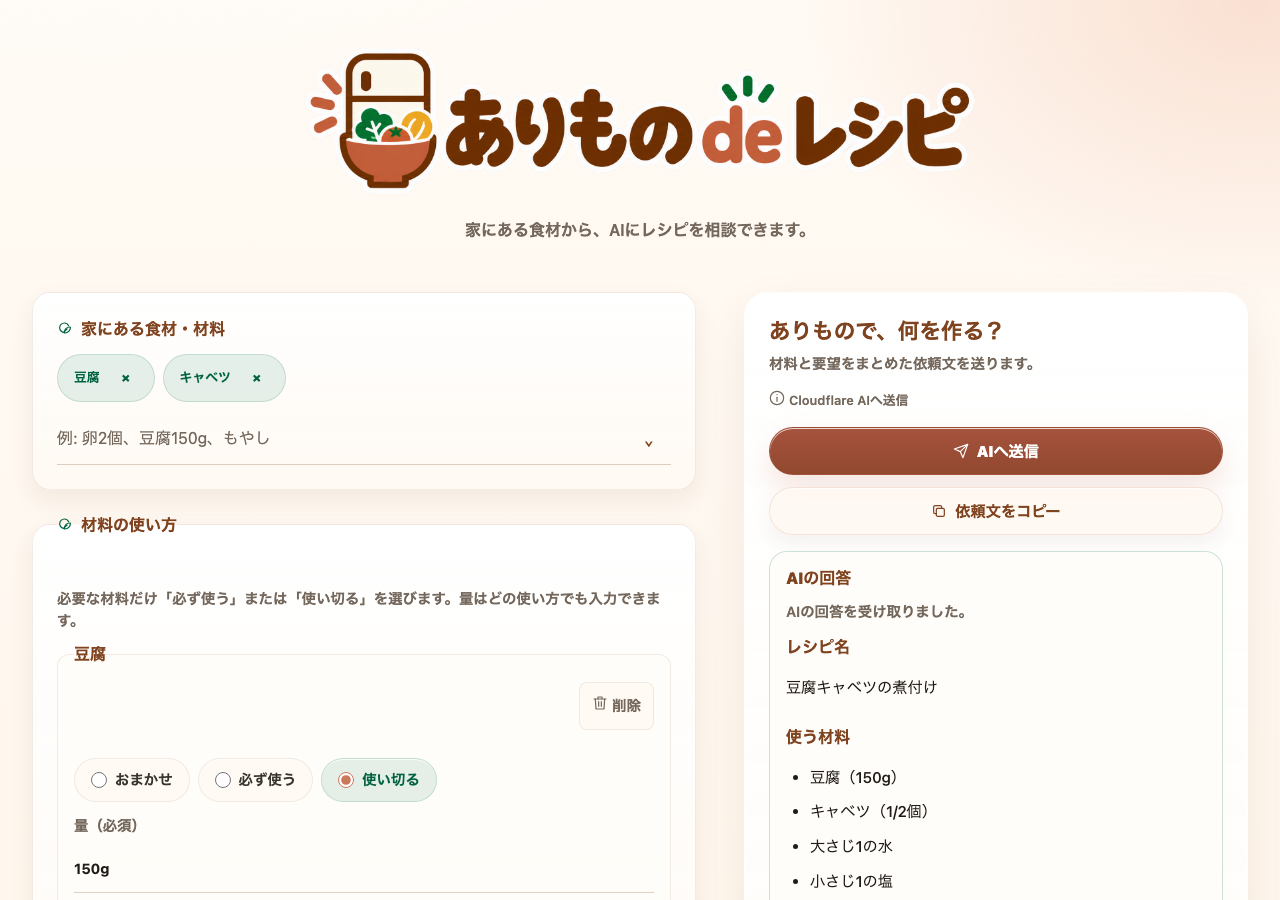
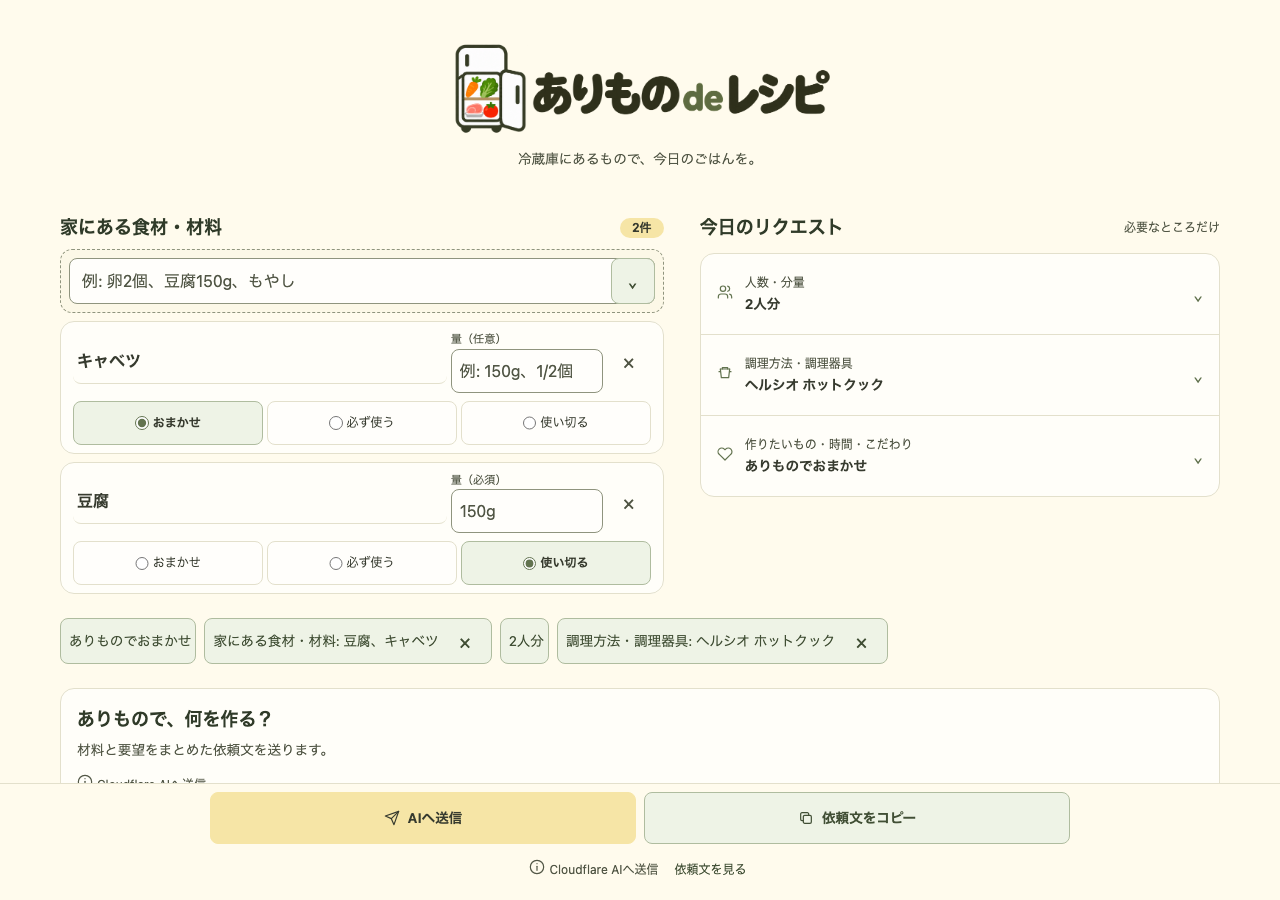
docs: record UI migration design and verification

diff --git a/docs/architecture/ui-migration.md b/docs/architecture/ui-migration.md
@@ -1,0 +1,180 @@
+# UI migration
+
+## Plan and test boundary
+
+Keep the existing UI during stage 1. Introduce a small typed application API whose
+committed recipe requests and AI lifecycle are independent of DOM, CSS and
+Clipboard. Test public operations, detached snapshots, prompt output and injected
+AI requests in Node. Reuse the existing candidate data, normalization, servings,
+material validation, prompt builder and AI client. After stage 1 checks pass,
+connect the supplied cream/yellow/sage design to that same API.
+
+Package delivery as three commits: the application API and Node tests; the new
+UI and browser regressions; documentation and screenshots. Open a draft PR for
+human review. Merge and deployment remain outside this task. Browser presentation
+state (IME, drafts, focus, suggestion panels and dialogs) belongs to adapters.
+
+## Feature map
+
+| Feature | Current implementation / tests | Application operation | New UI entrance | Verification | Status |
+| --- | --- | --- | --- | --- | --- |
+| Materials and IDs | combo-registry, ui / input, browser-interaction-regressions | commitInput, editValue, removeValue | Material input and cards | Exact duplicates, rename preserves ID/amount/usage; merge preserves destination | Verified: Node/E2E |
+| Full candidates | data, suggestions / data, suggestions, app | getSuggestions | Candidate button after input | Initial 20, featured-first search, selected exclusion, no mutation | Verified: Node/E2E |
+| Usage and amount | recipe-decision/materials, prompt / recipe-decision, direct-ai-flow | updateMaterial | Card amount and three usage choices | Optional all modes; use-up requires explicit nonblank amount | Verified: Node/E2E |
+| Amount meaning | types, prompt / prompt | updateMaterial | Card amount | Preserve as-written/custom; no name parsing or conversion | Verified: Node/E2E |
+| Intent | conditions, ui / conditions, input | setRequestIntent | Request options | Hidden values retained, inactive values omitted | Verified: Node/E2E |
+| Servings | servings, serving-controls / servings | setServingsMode, adjustServings | First request option | Presets, custom groups 0..10; no new rounding | Verified: Node/E2E |
+| Recipe count and roles | conditions, combo-registry / prompt, input | setRecipeCount, commitInput | Intent and count options | Pairing auto becomes one; target excludes roles; single keeps first | Verified: Node/E2E |
+| Tools | data, combo-registry / input | commitInput, editValue, removeValue | Second request option | Full candidates and free values, Hot Cook accessible | Verified: Node/E2E |
+| Time | combo-field, data / prompt | setCookTime | Time option | Unspecified/10/20/30/45/60, omission | Verified: Node/E2E |
+| Directions | data, combo-registry / input, prompt | commitInput, editValue, removeValue | Preferences | Full catalog and free values | Verified: Node/E2E |
+| NG materials and seasonings | candidate-values / data, input | commitInput, editValue, removeValue | Preferences | Composed catalog, edits/deletes, prompt | Verified: Node/E2E |
+| Other requests | conditions, prompt / prompt | setSupplementalNotes | Preferences | Free text and omission | Verified: Node/E2E |
+| Full request text | prompt, conditions / prompt | getSnapshot | Preview, copy, send | Stable section/material order and same body | Verified: Node/E2E |
+| Copy | output-panel / copy, direct-ai-flow | getSnapshot after draft commit | Fixed secondary action with icon | Input/request errors and loading preserve copy; fallback focus | Verified: Node/E2E |
+| AI lifecycle | ai-recipe-client, ai-prompt-panel / ai-prompt-client, direct-ai-flow | send, cancel, reportRenderFailure | Fixed primary action, answer area | Explicit send only; injected client; abort plus generation guards | Verified: Node/E2E |
+| Safe Markdown | recipe-markdown / recipe-markdown, direct-ai-flow | reportRenderFailure | Separate answer area | Existing parser budgets, raw HTML/URLs/images blocked | Verified: Node/E2E |
+| Browser interaction | combo-registry, app-events / browser-interaction-regressions | commitInput plus adapter events | Inputs, candidates, preview | IME, Enter/blur, focus, modal trap/return/resize, reduced motion | Verified: Node/E2E |
+| Public surroundings | web-analytics, ui / assets, browser-interaction-regressions | None | Footer and privacy dialog | CSP, exact production origin, no form analytics, narrow access | Verified: Node/E2E |
+
+Stored strings trim outside whitespace only. Search normalization is separate.
+Comma punctuation and internal spaces are retained. Duplicate matching is exact
+and case-sensitive. Canonical material order is insertion order; latest-first is
+only a view. Target dish is single; pairing dishes are multiple. Switching roles
+to one discards all but the first as before. Hidden inputs otherwise remain stored.
+
+## Evidence
+
+- Baseline `npm run check`: format, lint, typecheck, build, unit and structure
+  passed; E2E server startup failed in the restricted environment (exit 1).
+- Node commands use `ASDF_NODEJS_VERSION=26.4.0` because no repository-local asdf
+  version is selected. No dependency or package-manager change is required.
+- Modern Web Guidance CLI could not reach npm (ENOTFOUND). Native dialog and
+  inert behavior checked against [MDN](https://developer.mozilla.org/en-US/docs/Web/API/HTMLDialogElement/showModal).
+
+### Stage 1 acceptance
+
+- `npm run format:check`, `npm run lint`, `npm run typecheck`, `npm run build`,
+  `npm run test:unit`, `npm run test:structure`: exit 0 after the final API changes.
+- Full old-UI E2E run: 490 passed, 10 WebKit failures. Trace/event inspection
+  identified unchanged send-label replacement during blur swallowing clicks.
+  Avoiding unchanged AI presentation updates fixed it.
+- `npm run test:e2e -- --project=webkit --project=mobile-safari
+  --project=tablet-safari tests/e2e/direct-ai-flow.spec.ts
+  tests/e2e/browser-interaction-regressions.spec.ts`: exit 0, 132 passed,
+  0 skipped/flaky. The other 490 old-UI cases passed in the full run.
+- One structure-test rerun during concurrent browser load timed out; the serial
+  rerun passed without changing its assertions or timeout.
+- Read-only architecture review: added ID-based material operations, semantic
+  amount updates and input/error/retry coverage. No unresolved important finding.
+- Application imports no DOM modules at runtime. Snapshots detach all arrays and
+  objects; controllers and executable dependencies remain private. The old UI
+  now projects this state; IME, drafts, focus, Clipboard and dialogs stay in adapters.
+- TDD red/green slices: materials, effective requests, generations, candidates,
+  stable-ID operations (`/tmp/arimono-red-1.log` through `red-5.log` and matching
+  green logs). Tests run in Vitest's Node environment without DOM or jsdom.
+
+Stage 1 accepted; proceed directly to the supplied UI design.
+
+### Stage 2 acceptance — 2026-10-17
+
+`CI=1 ASDF_NODEJS_VERSION=26.4.0 npm run check` completed with **exit 0**.
+The command ran format, design/code/HTML/Markdown/YAML lint, both TypeScript
+checks, the Vite build, unit tests, structure tests and the full E2E matrix.
+Error-only reporters emitted no failures. Playwright reported **560 passed,
+0 failed, 0 skipped, 0 flaky** (163 seconds for E2E).
+
+| Playwright profile | Passed |
+| --- | ---: |
+| chromium | 110 |
+| mobile-chrome | 110 |
+| firefox | 85 |
+| webkit | 85 |
+| mobile-safari | 85 |
+| tablet-safari | 85 |
+
+Before PR delivery, reran `CI=1 ASDF_NODEJS_VERSION=26.4.0 npm run check`:
+exit 0, the same 560 passed and no failures, skips or flaky results (166 seconds
+for E2E). The delivery log is `/tmp/arimono-pr-check.log`. Also exported the
+application-API commit alone into an isolated tree with the existing dependency
+installation and ran `npm run typecheck`, `npm run build` and
+`npm run test:unit`: all exit 0 with the old UI retained.
+
+The 8 new Node application tests cover materials/IDs/amount modes, effective
+requests and hidden values, candidate access, snapshot isolation, notifications,
+input and transport failures, retry, cancellation and delayed-response generations.
+Existing prompt, client, function and safe-Markdown tests remain in place.
+
+Browser regressions also cover newest-first cards with insertion-order prompts,
+44px card controls, native amount/usage keyboard events, pending edits before
+copy/send, delayed blur while typing in another card, candidate Tab exit,
+collapsed count/role summaries and 1280x390 fixed-bar error clearance. A wide
+Markdown-table fixture now has 16 columns so it exceeds the new full-width
+answer surface as well as the mobile surface; scrolling and quantity assertions
+are retained.
+
+#### Review findings and resolutions
+
+- Restrict combo event delegation to its actual inputs/options/pills; card amount
+  and usage events keep native focus and keyboard behavior.
+- Preserve active amount selection/focus across a material insertion. Commit a
+  pending addition before creating a name editor so a delayed blur cannot save
+  partial typing or remove the editor.
+- Explicit copy/send commits completed IME text immediately; composing text is
+  left pending and the separate confirmation-Enter guard remains intact.
+- Use actual fixed-footer bounds for input/error clearance at all widths.
+- Announce AI status in one region, avoid unchanged answer/count rewrites, and
+  show active count/role/preferences in collapsed request summaries.
+- Remove the indirect DOM-controller type dependency from `conditions.ts`.
+- Read-only architecture and interaction/privacy reviews have no unresolved
+  important findings. A reviewer reproduced and rechecked the two blur races in
+  Chromium at 390x844.
+
+Safari's native keyboard setting can skip radio groups during Tab navigation.
+The updated navigation regression accepts that native step while still requiring
+focus to reach the next material and preserve subsequent typing. No test was
+skipped or timeout increased. Diagnostic logs remain at
+`/tmp/arimono-final-check.log`; prior failing traces are under
+`/tmp/arimono-ui-evidence/diagnostics/` and their prior result summary is
+`/tmp/arimono-stage2-prior-results.json`.
+
+#### Visual evidence and limits
+
+- Visually inspected Chromium screenshots at 320x700, 390x844 and 1280x900.
+  Updated [desktop screenshot](../media/desktop.png) and
+  [mobile screenshot](../media/mobile.png); the 320px capture is
+  `/tmp/arimono-ui-evidence/320.png`.
+- Browser tests include long names, multiple materials, empty/error states,
+  tables, privacy, preview traps/restoration, resize and reduced motion across
+  the configured profiles. These are Playwright/browser emulation results.
+- Physical iOS devices and software keyboards were not tested. Live Workers AI
+  generation was not exercised; controlled responses and injected transports
+  verify the existing client and application paths without live AI requests.
+- No selected formal check was skipped. `npm ci` was unnecessary because the
+  existing installed dependencies were usable and manifests/lockfile did not
+  change. Dependency audit was outside this migration's unchanged dependencies.
+
+#### Intentional UI changes and retained behavior
+
+The supplied local logo, cream/yellow/sage palette, centered subtitle, compact
+material cards and three request entrances replace the previous layout. Inputs
+precede specified values; material cards are latest first. Servings and tools
+precede purpose/time/preferences; fixed send/copy actions are available at every
+width. Tab follows the new card order (name/delete, amount, usage, next card).
+The answer remains a separate normal-flow surface below inputs.
+
+Prompt section/material order, exact-string storage and duplicate rules,
+as-written/custom semantics, inactive-value retention, count/role dependencies,
+candidate catalogs, local copy recovery and explicit same-origin full-prompt AI
+submission remain unchanged. No auth, persistence, new endpoint, provider,
+analytics expansion, external font/image request or dependency was added.
+
+Main ownership: `src/recipe-application.ts` (canonical requests and lifecycle),
+`src/combo-options.ts` (existing catalog ordering), `src/ui.ts` and browser adapters
+(projection/events), `src/styles.css` / `DESIGN.md` / local logo (visual design),
+plus Node/E2E coverage and the architecture/testing documents. Existing prompt,
+AI client, safe Markdown, Workers Function, analytics and CSP implementations
+remain the sources of truth. The starting HEAD is
+`e4effb77dff608fd6118cddc998a3bf0568fba89`. Delivery separates the application
+boundary, UI migration and review evidence into commits on a feature branch.
+The draft PR leaves approval and merge to a human; no deployment is performed.

diff --git a/docs/architecture/ui-boundaries-and-testability.md b/docs/architecture/ui-boundaries-and-testability.md
@@ -4,7 +4,8 @@
 
 - UI shell renders the page frame and stable surfaces.
 - Form rendering creates recipe item controls from data/config.
-- Event binding updates state and delegates prompt refresh.
+- Browser events translate drafts and native controls into typed application operations.
+- The application owns committed recipe requests, effective prompt data and AI state.
 - Prompt generation stays in prompt/domain-oriented modules.
 - Data definitions hold recipe item definitions, candidate values, and output labels.
 
@@ -26,10 +27,22 @@ This repo is a public single Vite app. It uses source-module boundaries instead 
 - `src/data.ts` defines current recipe item and candidate relationships.
 - `src/prompt.ts` owns prompt output rules.
 - `src/ui.ts` owns rendering structure and stable hooks.
-- `src/app-events.ts` owns interaction state changes.
+- `src/recipe-application.ts` owns committed recipe requests and the AI lifecycle. Its
+  typed operations, detached snapshots and subscriptions work in Node without a DOM.
+  It derives effective data through `conditions.ts` and reuses `buildPrompt`.
+- `src/combo-options.ts` owns candidate ordering; `suggestions.ts` filters the existing catalog.
+- `src/combo-registry.ts` owns browser drafts, IME and candidate/pill focus. It delegates
+  committed values to the application instead of keeping a second value array.
+- `src/serving-controls.ts` projects application counts; DOM datasets do not own counts.
+- `src/app-events.ts` owns presentation interactions, dialogs and action adapters.
 - `src/ai-recipe-client.ts` owns the browser call to the same-origin `/api/recipe` endpoint.
 - `src/web-analytics.ts` owns the approved production-only Cloudflare Web Analytics script installation; it does not read form state.
-- `src/ai-prompt-panel.ts` owns full-prompt submission, answer state and stale-response handling; the answer stays separate from the copyable request text.
+- `src/ai-prompt-panel.ts` renders answer state and handles explicit send focus. It
+  reports Markdown rendering failures back to the application without mutating its
+  snapshot. Async completion does not move focus or scroll. Unchanged answer state
+  is not repainted while native input/change/click events are in progress.
+- `src/output-panel.ts` copies the application prompt through the browser Clipboard
+  adapter and retains manual recovery. Copy/submit commit eligible drafts synchronously.
 - `src/recipe-markdown.ts` owns safe answer presentation only; it does not build the request or validate ingredients.
 - `src/recipe-decision/materials.ts` retains material amount validation; candidate adapters and cooking-view state have been removed under ADR 0014.
 - `functions/api/recipe.ts` owns the approved Cloudflare Pages Function boundary for Workers AI.
@@ -39,3 +52,7 @@ Do not add fake root `exports` just to make this app look like a package. If fut
 ## Future Component Splits
 
 Any future split should preserve behavior first and styling second. Start with characterization tests around prompt output and E2E stable hooks, then move code in small steps.
+
+The [UI migration map](ui-migration.md) records the new entrances and acceptance
+evidence. The supplied HTML is a visual reference; its sample data, normalization,
+prompt builder and fake AI path are not runtime dependencies.

diff --git a/README.md b/README.md
@@ -1,6 +1,6 @@
 # ありもの de レシピ
 
-**冷蔵庫にあるもので、今日の献立を決める。**
+**冷蔵庫にあるもので、今日のごはんを。**
 
 家にある食材と「使い切りたい量」を入力して、AIに料理を相談できるWebアプリです。買い足しなしを基本に、入力から作った依頼文をアプリ内AIへ送り、回答をその場で読めます。普段使っているChatGPT・Claude・Gemini向けの依頼文を作ってコピーすることもできます。
 
@@ -8,7 +8,7 @@
 
 ![材料を入力して料理を相談するデスクトップ画面](docs/media/desktop.png)
 
-[スマートフォンの画面](docs/media/mobile.png) · [操作動画](docs/media/demo.mp4)
+[スマートフォンの画面](docs/media/mobile.png) · [移行前の操作動画](docs/media/demo.mp4)
 
 ## 使い方
 
@@ -32,7 +32,7 @@
 
 依頼文を組み立てる処理と画面描画を分け、項目・候補値を設定データで管理しています。未指定の条件やルールは出力せず、利用者が入力した量や要望を保ちます。表示・コピー・送信で同じ依頼文を使い、待機・失敗時もコピーできます。入力変更による通信の中断や古い回答の破棄も扱います。AIの回答は材料・NG条件の自動照合を行わないため、調理前の確認が必要です。
 
-スマートフォンでは下部の送信・コピー操作とページ内の回答、デスクトップでは入力と回答の2カラムを使います。キーボード操作、フォーカスの復元、長い入力、コピー拒否、AIの待機・失敗もテスト対象です。設計の理由と制約は[ADR](docs/adr/)、検証範囲は[UXテスト対応表](docs/testing/ux-test-matrix.md)に記録しています。
+スマートフォンでは下部の送信・コピー操作とページ内の回答、デスクトップでは材料とリクエストを2カラムに並べ、回答をその下に表示します。キーボード操作、フォーカスの復元、長い入力、コピー拒否、AIの待機・失敗もテスト対象です。設計の理由と制約は[ADR](docs/adr/)、検証範囲は[UXテスト対応表](docs/testing/ux-test-matrix.md)に記録しています。
 
 ## ローカルで動かす
 

diff --git a/docs/prd/direct-ai-recipe-flow.md b/docs/prd/direct-ai-recipe-flow.md
@@ -7,7 +7,7 @@
 ## 画面と操作
 
 - 主操作は送信アイコン付きの「AIへ送信」。副操作はコピーアイコン付きの「依頼文をコピー」。アイコンだけに頼らず、短い表示とアクセシブルな名前を付ける。
-- desktopは入力と回答の2カラム、mobileは入力から回答へ続く1カラムにする。mobileの固定操作は送信とコピーの2つに絞る。
+- desktopは材料とリクエストの2カラム、mobileは1カラムにする。回答は入力の下に置き、両方の幅で送信とコピーを固定操作から使えるようにする。
 - 回答は依頼文プレビューの外に置く。送る依頼文は必要なときだけ開ける。
 - 送信開始時は待機状態を示し、連打による重複送信を防ぐ。コピーは待機中も利用できる。
 - mobileでは送信開始時に回答位置へ移動する。回答到着時には操作中のfocusやscrollを奪わない。

diff --git a/docs/testing/ux-test-matrix.md b/docs/testing/ux-test-matrix.md
@@ -36,6 +36,14 @@ Structure tests are mechanical guardrails. They are not proof of runtime behavio
 
 ## Stable Hook Convention
 
+The Node-only `recipe-application.test.ts` covers public operations, material IDs,
+hidden input retention, detached snapshots, subscriptions, input errors, retry,
+copyable text and request generations. Existing client tests own timeout and size
+validation. New UI entry points are `recipe-item-toggle-servings` and
+`recipe-item-toggle-requestOptions`; nested options are opened through the latter.
+Material cards display latest first while prompt order remains insertion order.
+The fixed send/copy bar is available at desktop widths as well as mobile widths.
+
 - `data-testid="app-shell"`
 - `data-testid="site-footer"`
 - `data-testid="creator-link"`
